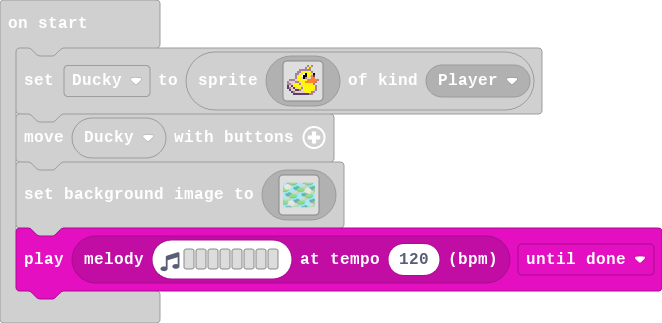
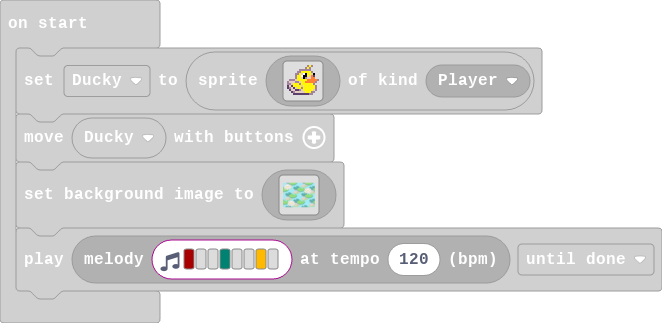
made a lil melody

Changed region(s): [[0.0, 0.6811, 1.0, 0.9288], [0.2719, 0.774, 0.3021, 0.8359]]

diff --git a/main.ts b/main.ts
@@ -139,4 +139,4 @@ scene.setBackgroundImage(img`
[1 lines of base64/hex data omitted]
     9999999999999666666666666666666666666666667777777769999999999999999999999999999999999999999996666666666666666666666666666677777777699999999999999999999999999999
     `)
-music.play(music.stringPlayable("- - - - - - - - ", 120), music.PlaybackMode.UntilDone)
+music.play(music.stringPlayable("C5 - - F - - A - ", 120), music.PlaybackMode.UntilDone)
